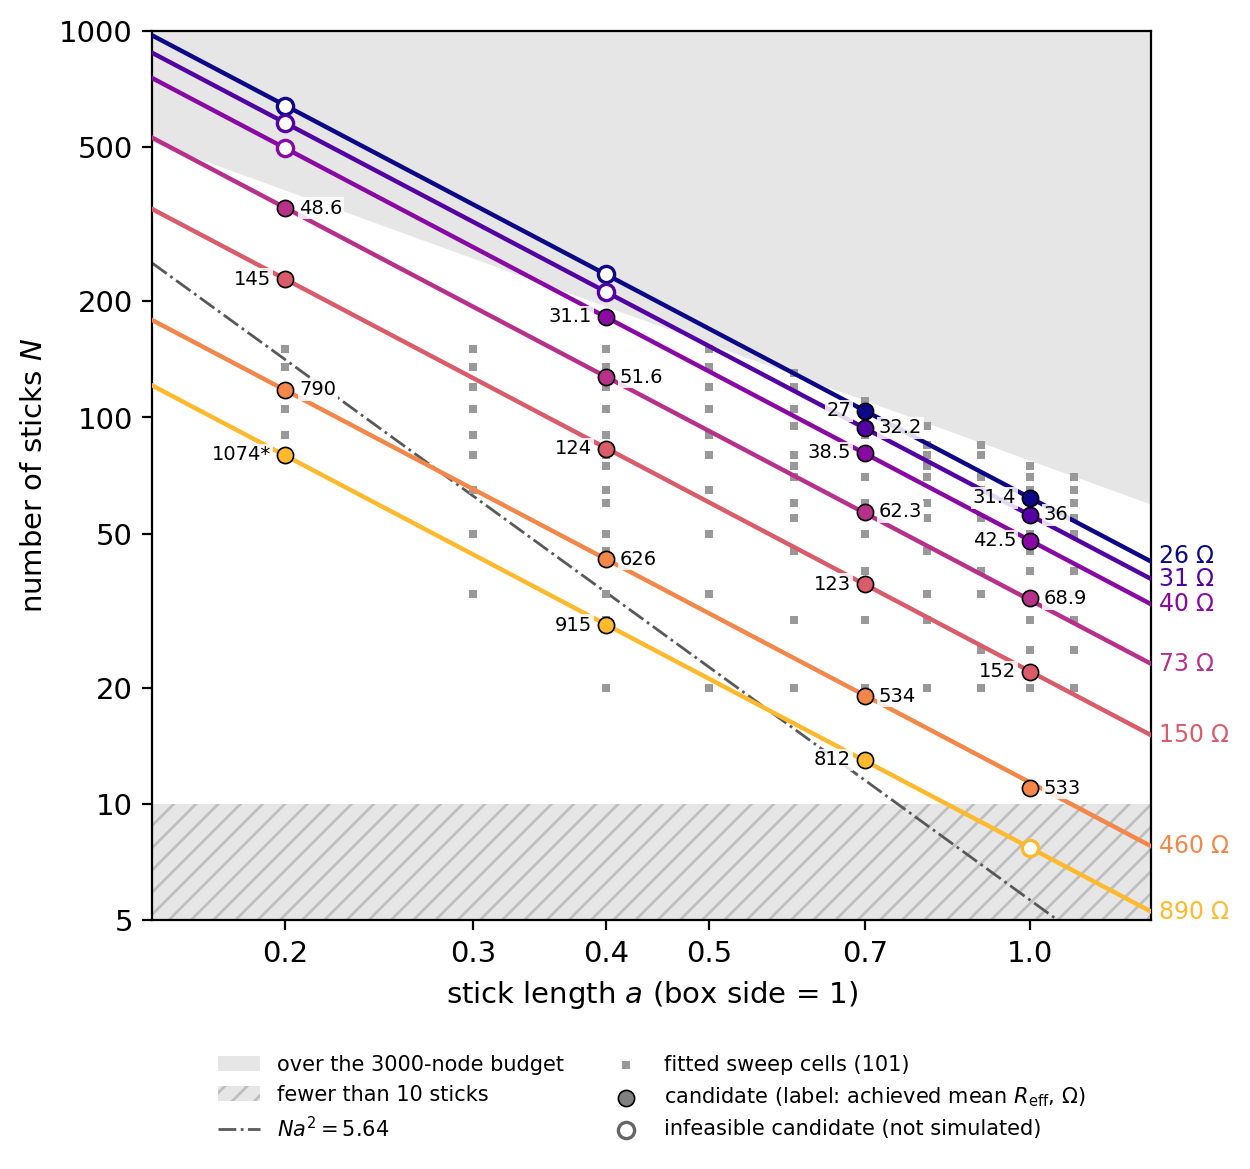
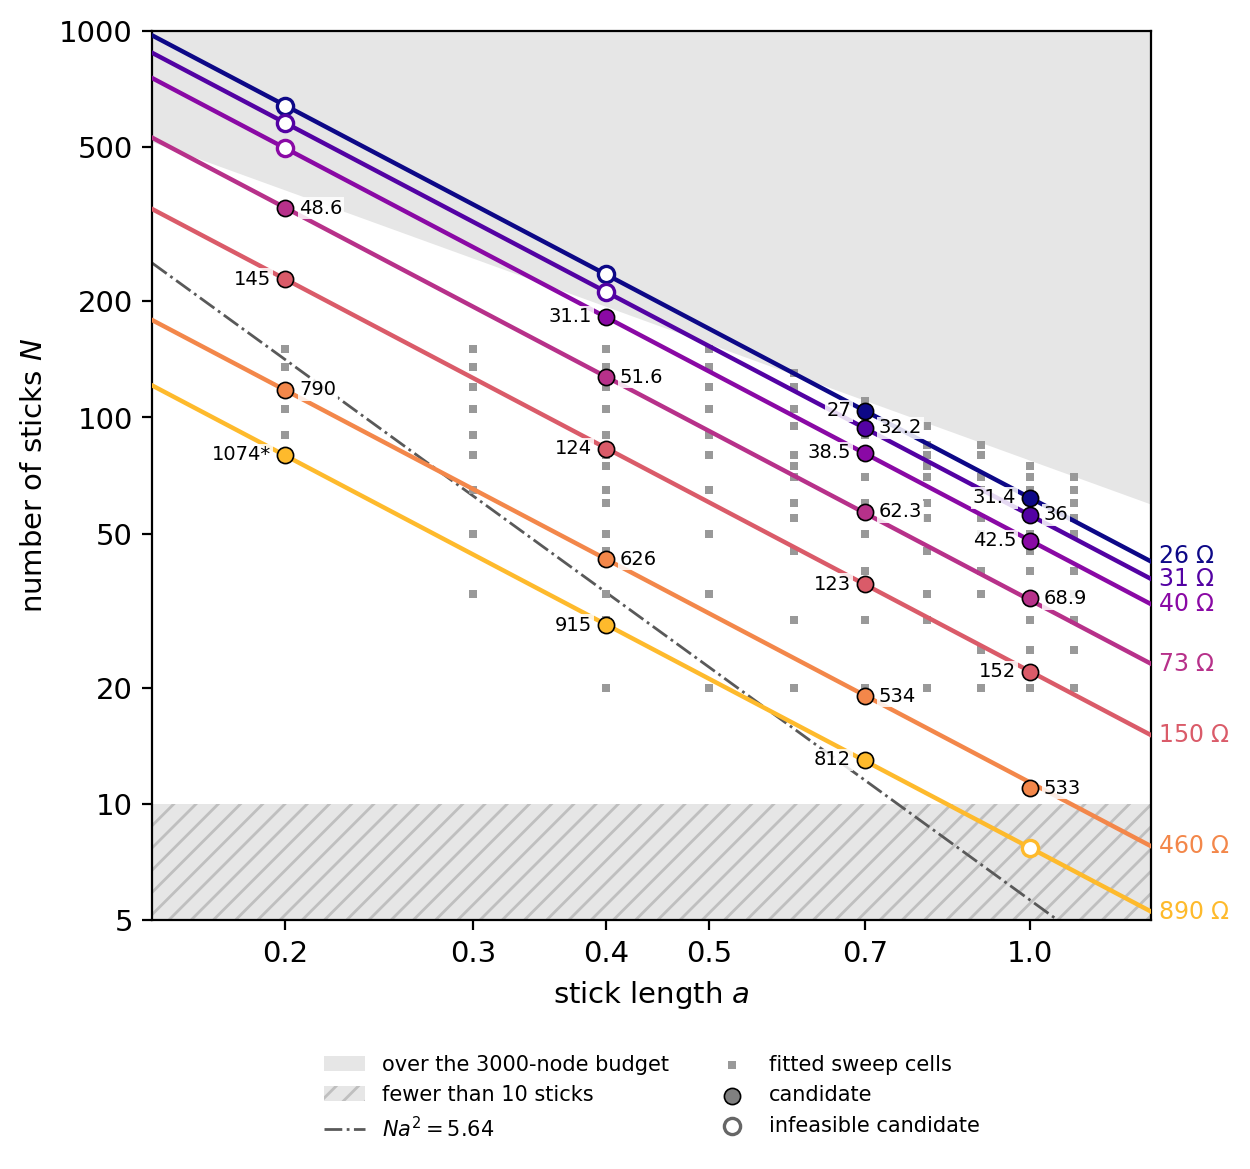
fix: shorten iso_resistance_figure.py axis label and legend entries
Use "stick length $a$" on the x axis (was "box side = 1", out of date with
the thesis) and drop the parenthetical parts of the legend entries; the
thesis figure note carries those details.

Changed region(s): [[0.156, 0.8931, 0.8736, 0.9855], [0.3432, 0.8315, 0.6864, 0.8623]]

diff --git a/revision_analyses/iso_resistance_figure.py b/revision_analyses/iso_resistance_figure.py
@@ -53,7 +53,7 @@ ax.fill_between(ag, np.sqrt(2 * 3000) / ag, yhi, color="0.9", lw=0, zorder=0, la
 ax.fill_between(ag, ylo, 10, color="0.9", lw=0, hatch="///", edgecolor="0.75", zorder=0, label="fewer than 10 sticks")
 ax.plot(ag, 5.64 / ag ** 2, ls="-.", color="0.35", lw=1, zorder=1, label=r"$Na^2 = 5.64$")
 ca, cN = zip(*[(a, N) for N, a in cells])
-ax.scatter(ca, cN, s=9, marker="s", color="0.6", lw=0, zorder=2, label=f"fitted sweep cells ({len(cells)})")
+ax.scatter(ca, cN, s=9, marker="s", color="0.6", lw=0, zorder=2, label="fitted sweep cells")
 ly = {t: np.log10(N_of(1.3, t)) for t in targets}          # right-edge labels, nudged apart
 for lo, hi in zip(targets[::-1], targets[::-1][1:]):        # from the highest R (lowest N) upward
     ly[hi] = max(ly[hi], ly[lo] + 0.06)
@@ -69,14 +69,14 @@ for j, (c, (Rach, n)) in enumerate(zip(plan, achieved)):
                 bbox=dict(boxstyle="square,pad=0.08", fc="white", ec="none", alpha=0.85))
 for c in infeasible:
     ax.scatter([c["a"]], [c["N_curve"]], s=34, facecolor="white", edgecolor=col[c["R_target"]], lw=1.2, zorder=5)
-ax.scatter([], [], s=34, color="0.5", edgecolor="k", lw=0.6, label="candidate (label: achieved mean $R_{\\mathrm{eff}}$, $\\Omega$)")
-ax.scatter([], [], s=34, facecolor="white", edgecolor="0.4", lw=1.2, label="infeasible candidate (not simulated)")
+ax.scatter([], [], s=34, color="0.5", edgecolor="k", lw=0.6, label="candidate")
+ax.scatter([], [], s=34, facecolor="white", edgecolor="0.4", lw=1.2, label="infeasible candidate")
 ax.set_xscale("log"); ax.set_yscale("log")
 ax.set_xlim(0.15, 1.3); ax.set_ylim(ylo, yhi)
 ax.set_xticks([0.2, 0.3, 0.4, 0.5, 0.7, 1.0]); ax.set_xticklabels(["0.2", "0.3", "0.4", "0.5", "0.7", "1.0"])
 ax.minorticks_off()
 ax.set_yticks([5, 10, 20, 50, 100, 200, 500, 1000]); ax.set_yticklabels(["5", "10", "20", "50", "100", "200", "500", "1000"])
-ax.set_xlabel("stick length $a$ (box side = 1)")
+ax.set_xlabel("stick length $a$")
 ax.set_ylabel("number of sticks $N$")
 ax.legend(fontsize=7.5, frameon=False, loc="upper center", bbox_to_anchor=(0.5, -0.13), ncol=2)
 fig.tight_layout()
